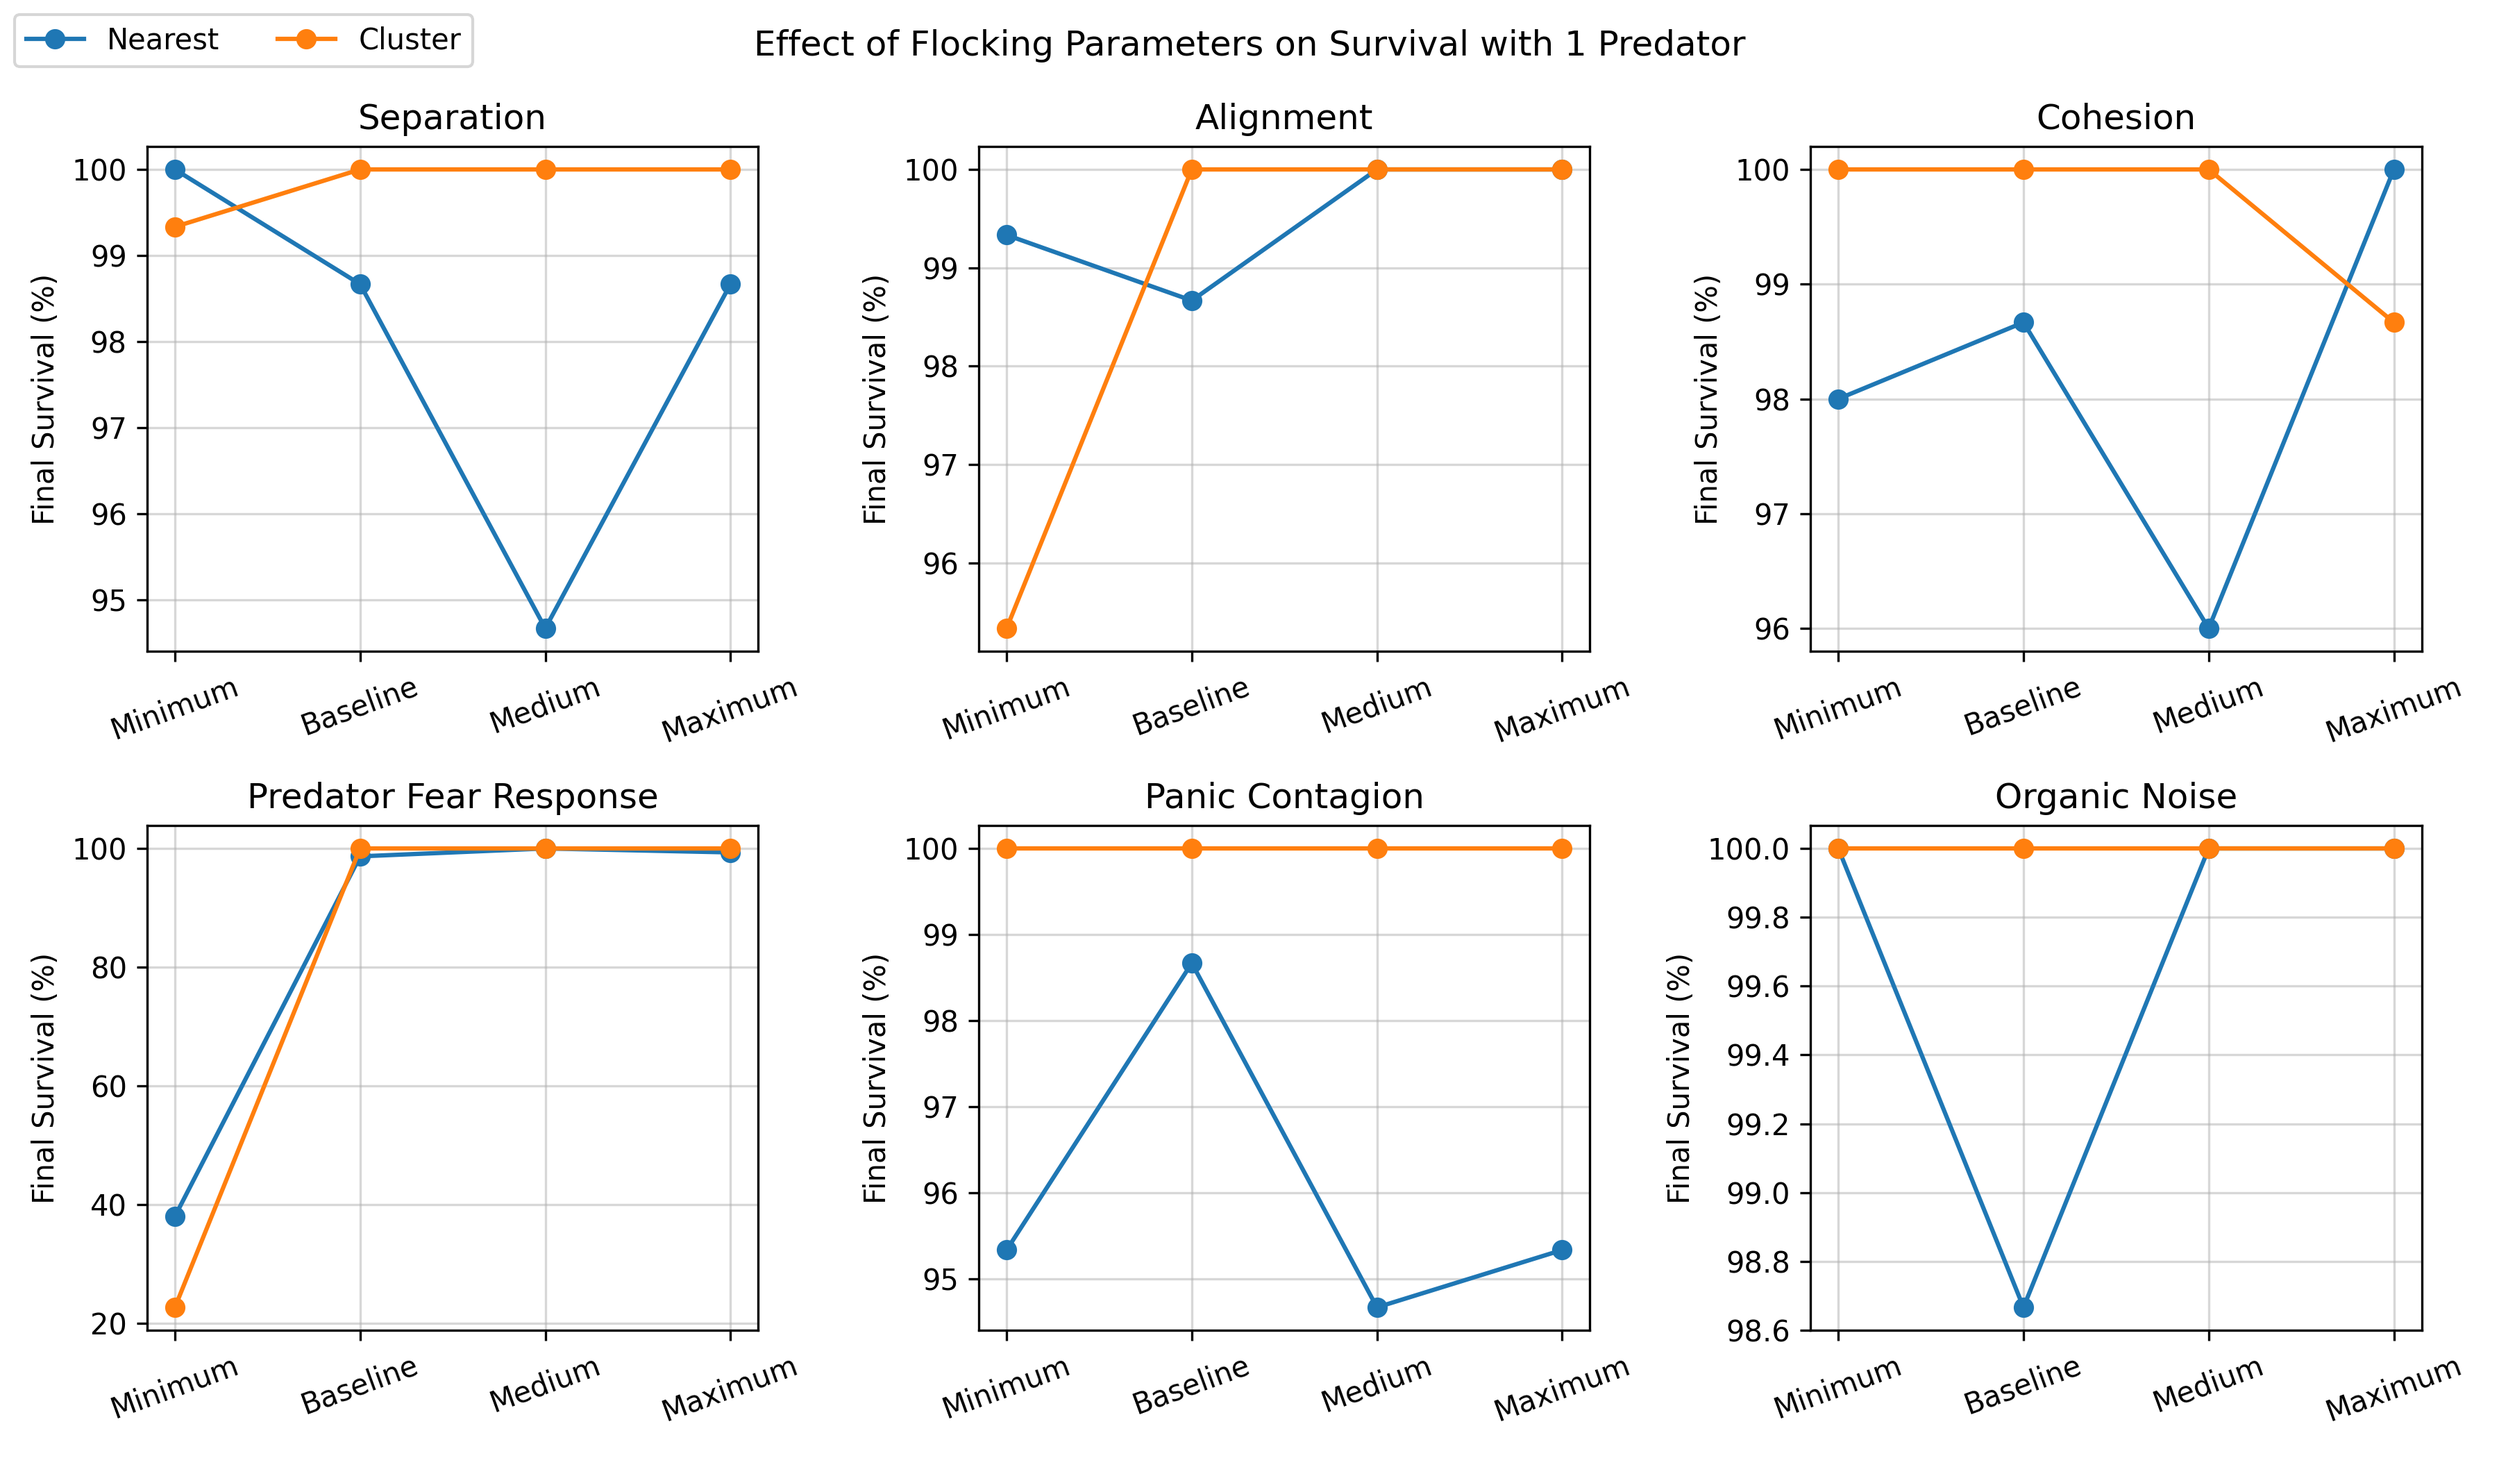
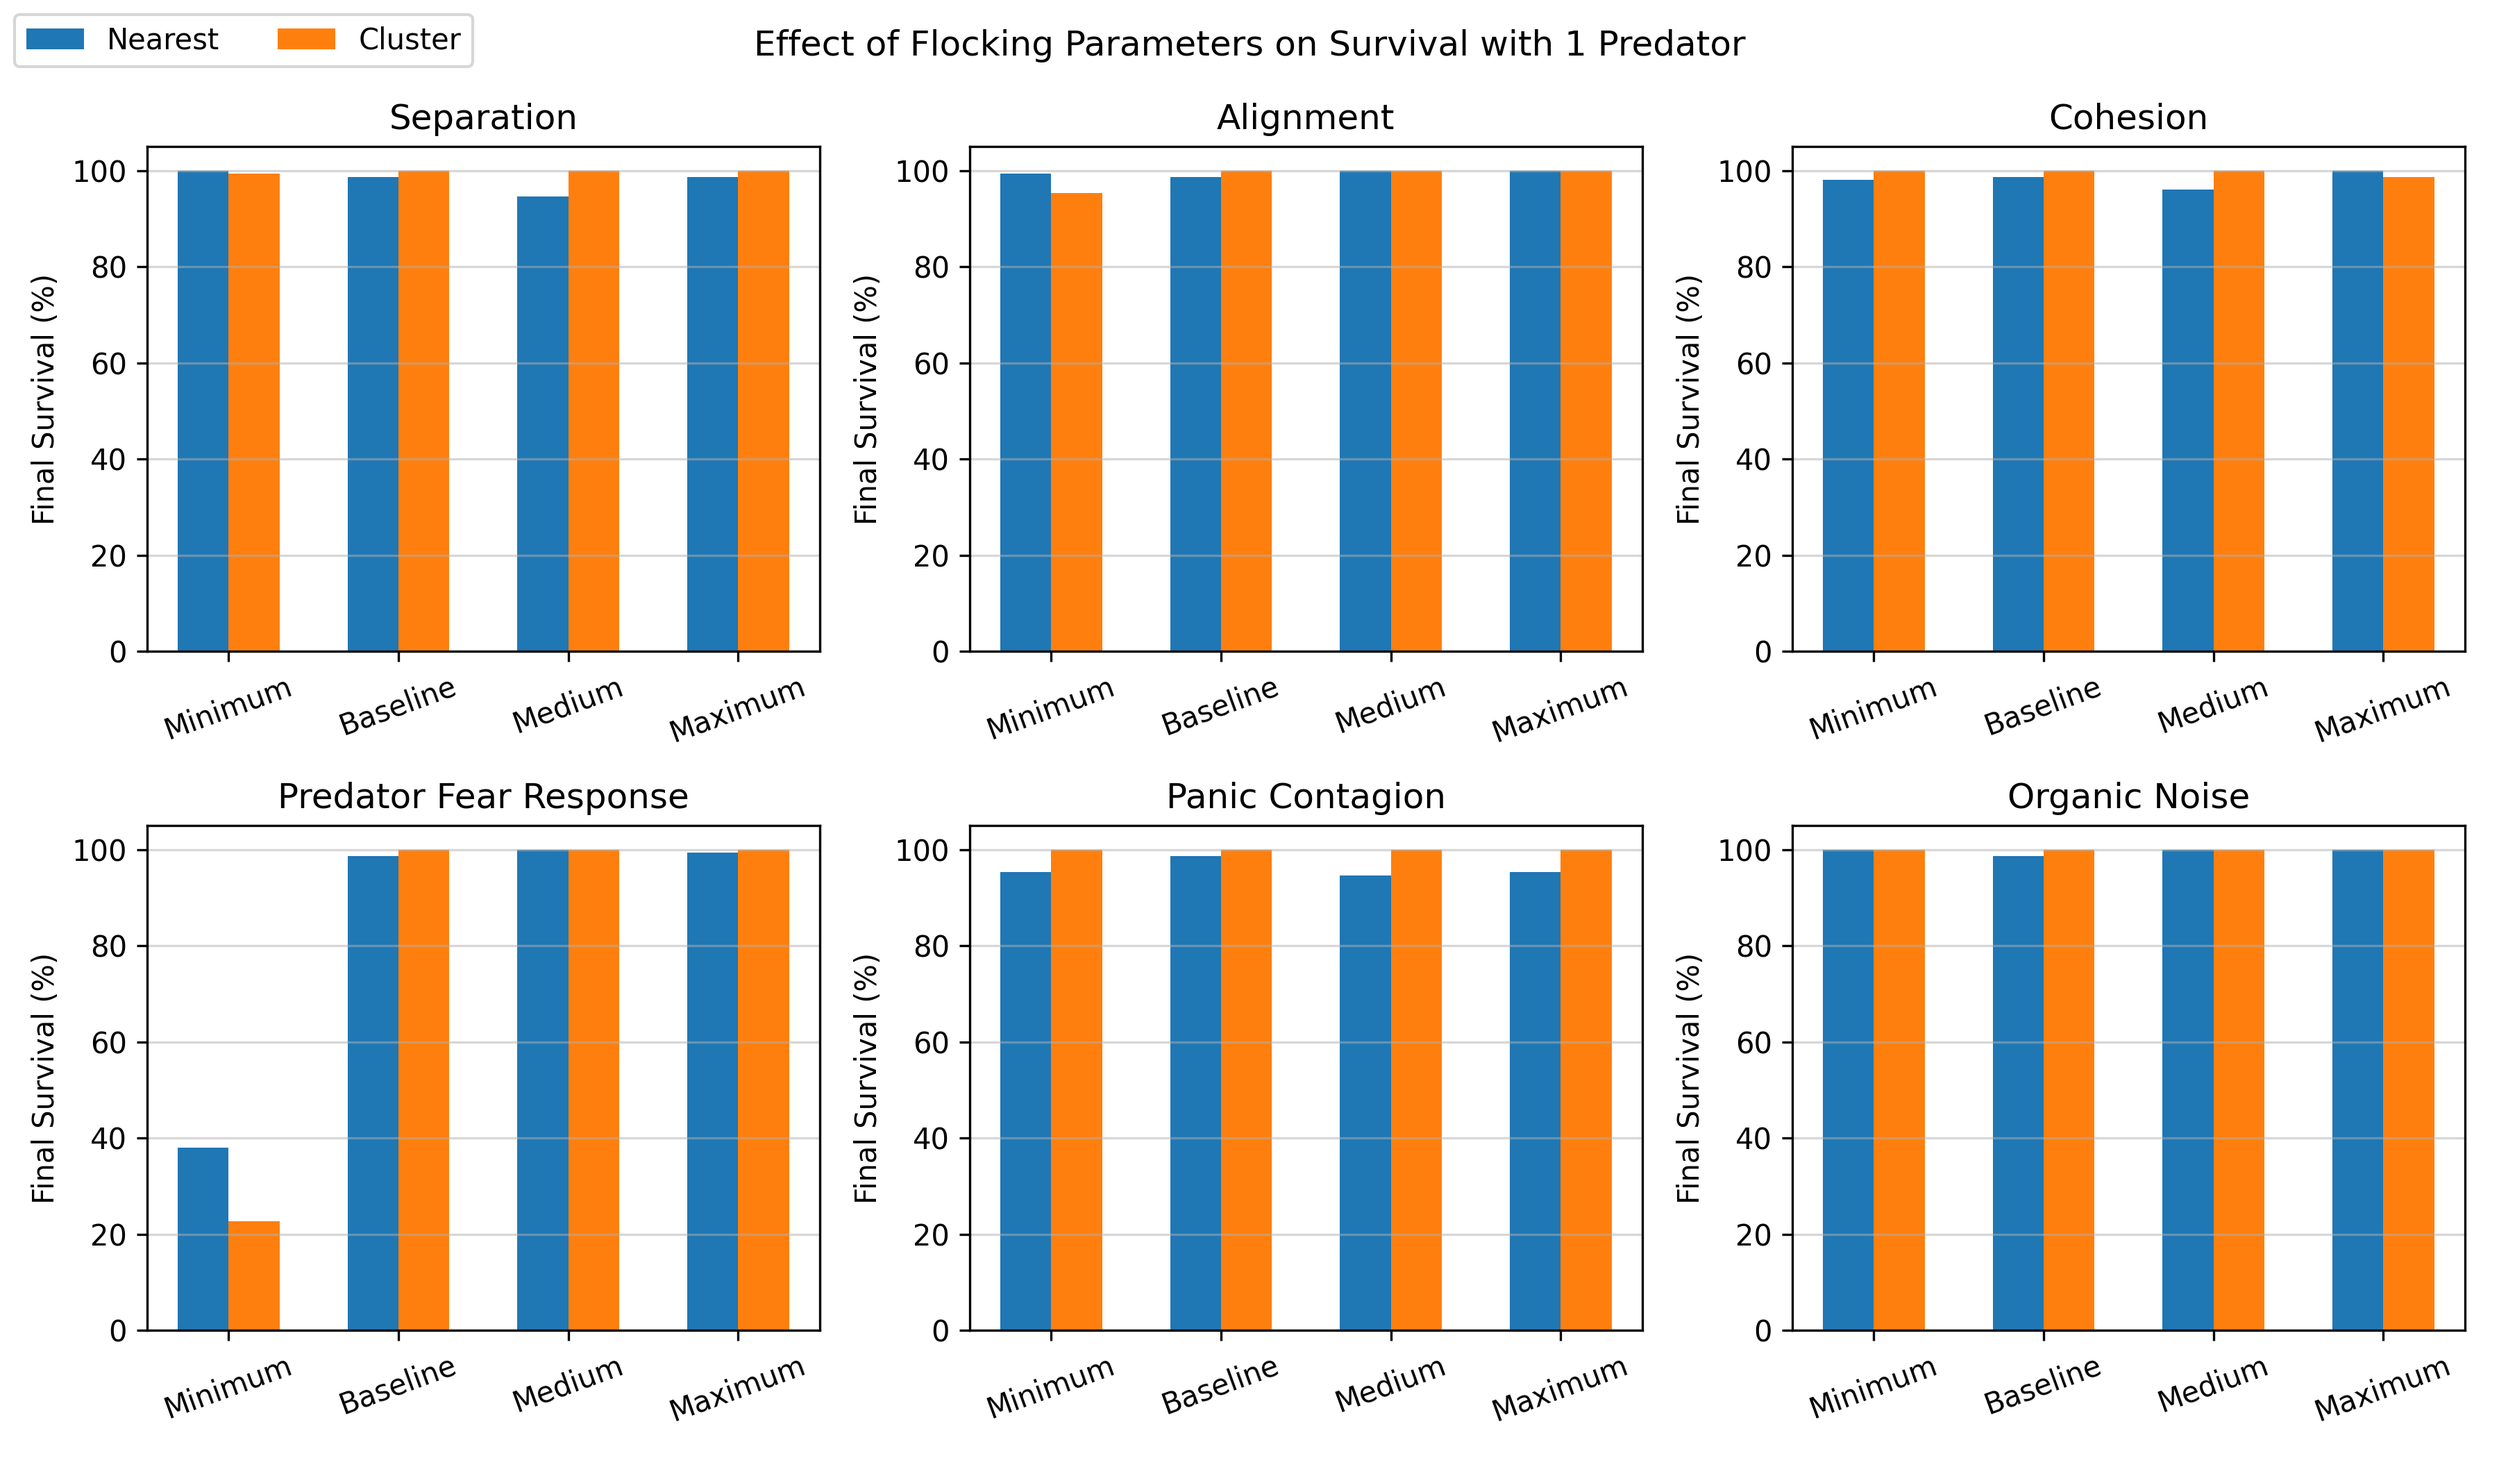
Updated figures to be bar plots

diff --git a/experiment_figures.py b/experiment_figures.py
@@ -182,6 +182,7 @@ def plot_parameter_effects_on_survival(predator_count, output_name):
     # Set the x-axis positions and labels once.
     x_labels = [level_display_name(level) for level in levels]
     x = np.arange(len(x_labels))
+    bar_width = 0.3
 
     # Each subplot is for one variable.
     for ax, variable in zip(axes, variables):
@@ -201,13 +202,13 @@ def plot_parameter_effects_on_survival(predator_count, output_name):
             cluster_values.append(final_survival_percentage(cluster_title))
 
         # Plot nearest and cluster targeting on the same subplot.
-        ax.plot(x, nearest_values, marker="o", label="Nearest")
-        ax.plot(x, cluster_values, marker="o", label="Cluster")
+        ax.bar(x - bar_width/2, nearest_values, width=bar_width, label="Nearest")
+        ax.bar(x + bar_width/2, cluster_values, width=bar_width, label="Cluster")
         ax.set_title(variable_display_name(variable))
         ax.set_xticks(x)
         ax.set_xticklabels(x_labels, rotation=20)
         ax.set_ylabel("Final Survival (%)")
-        ax.grid(True, alpha=0.5)
+        ax.grid(True, alpha=0.5, axis="y")
 
     # Use one shared legend for the whole figure.
     handles, labels = axes[0].get_legend_handles_labels()
@@ -248,6 +249,7 @@ def experiment_title_from_condition(predator_count, targeting, condition):
 # Compre nearest and cluster targeting across matched conditions.
 def plot_targeting_strategy_comparison():
     fig, axes = plt.subplots(1, 2, figsize=(12, 5), sharey=True)
+    bar_width = 0.3
     
     # Make one subplot for 1 predator and one for 25 predators.
     for ax, predator_count in zip(axes, [1, 25]):
@@ -267,8 +269,8 @@ def plot_targeting_strategy_comparison():
         x = np.arange(len(conditions))
 
         # Plot the two targeting strategies on the same subplot.
-        ax.plot(x, nearest_values, marker="o", label="Nearest")
-        ax.plot(x, cluster_values, marker="o", label="Cluster")
+        ax.bar(x - bar_width/2, nearest_values, width=bar_width, label="Nearest")
+        ax.bar(x + bar_width/2, cluster_values, width=bar_width, label="Cluster")
 
         if predator_count == 1:
             ax.set_title("1 Predator")
@@ -279,7 +281,7 @@ def plot_targeting_strategy_comparison():
         ax.set_xticks(x)
         ax.set_xticklabels(range(1, len(conditions) + 1))
         ax.set_ylabel("Final Survival (%)")
-        ax.grid(True, alpha=0.5)
+        ax.grid(True, alpha=0.5, axis="y")
 
     # Use one shared legend for the whole figure.
     handles, labels = axes[0].get_legend_handles_labels()
